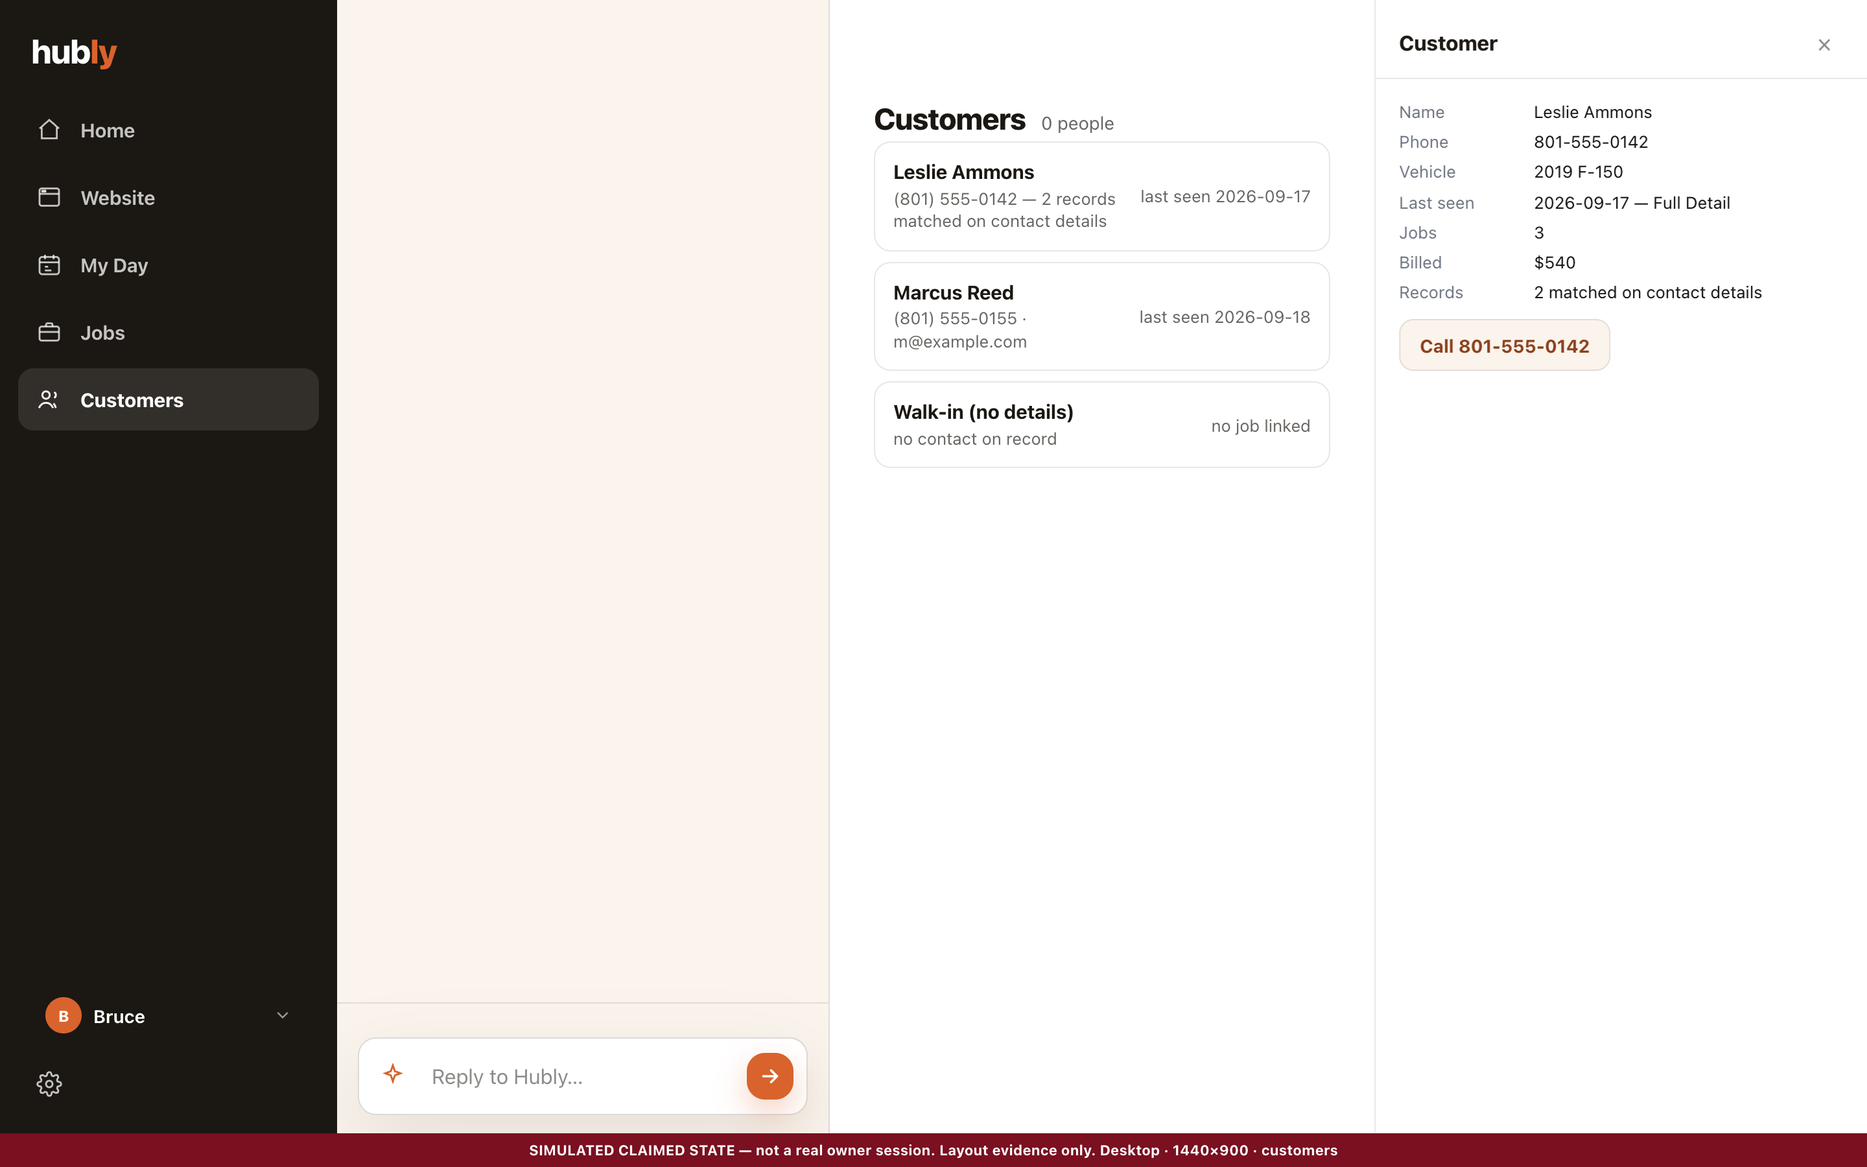
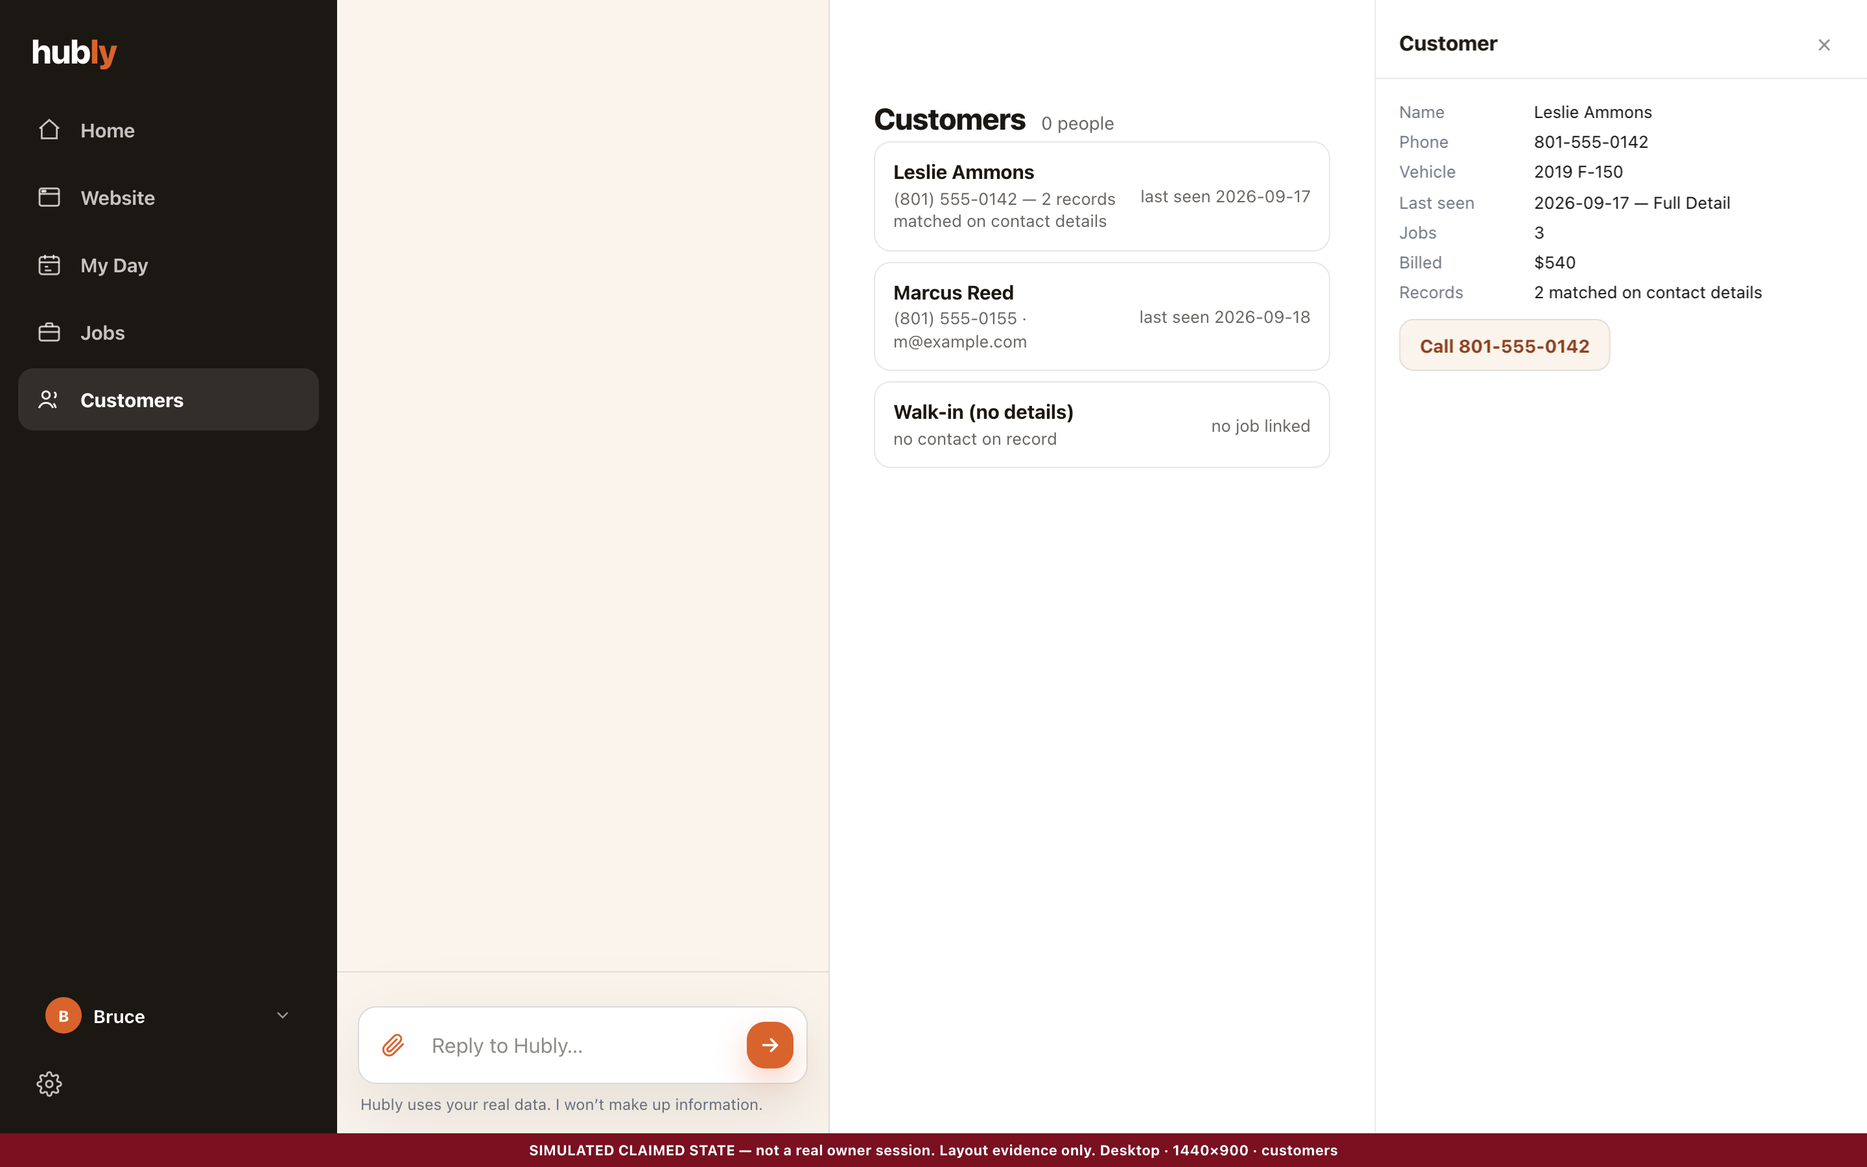
The five design gaps from 1d, closed — and the one that traded against another rule
A1. NO WAY TO LOOK AT ANOTHER DAY. hc._dayISO decided which day this surface drew from
the day it was written and NOTHING could change it. Today · ‹ · › · a real date field,
each setting the day and redrawing through hcRepaintDay — so bands, calendar, glance
counts, "Later this week", the progress line and the add form all move together and none
can disagree about which day it is. Today is disabled ON today rather than doing nothing
when pressed.

    AND THE SILENT WRONG-DATE WRITE IT WOULD HAVE CREATED, fixed in the same change: the
    add form wrote `new Date()` unconditionally. Harmless while today was the only day
    you could see; the moment these controls shipped it meant adding something while
    looking at next Tuesday put it on TODAY and said it was added. Leg 18 holds it.

A2. A BAND WITH ITEMS OFFERED NO WAY TO ADD. The + line rendered only in an EMPTY band,
so on a day with something in all three there was no + anywhere and the calendar hours
were the only door left — which nothing on screen announces. That is the idle-only-door
rule inside the surface the rule was written for.

A3. ROWS TRUNCATED, and the cause was a media query asking the wrong question. `.hcmd`
wrapped at `@media (max-width:1100px)` — the WINDOW. The day does not live in the window:
at 1440 it lives in an 800px canvas beside a 380px chat, so after a 320px context column
it had 412px for four columns and the query never fired. A container query on the pane
[…]

Changed region(s): [[0.1875, 0.8711, 0.4375, 0.9644]]

diff --git a/public/platform-home.html b/public/platform-home.html
@@ -323,10 +323,42 @@ body.hc-active .footer,body.hc-active .hero{display:none}
    NOTHING RENDERS SQUEEZED: the centre and the context column both have a min-width and the
    context column drops below the day rather than crushing it. */
 .hcmd{display:flex;gap:20px;align-items:flex-start;width:100%;height:100%;overflow:auto;padding:22px 24px 40px;box-sizing:border-box}
+/* THE CONTAINER IS THE PANE, NOT THE DAY ITSELF. An element is never its own container query
+   context, so `container-type` on .hcmd made `.hcmd{flex-wrap:wrap}` inside the @container block
+   silently never match while `.hcmd-ctx{flex:1 1 100%}` DID — the context column grew instead of
+   wrapping and the day got NARROWER (340px, measured). It belongs on the pane above. */
+#hcCanvas{container-type:inline-size}
 .hcmd-main{flex:1 1 560px;min-width:340px}
 .hcmd-ctx{flex:0 0 320px;min-width:260px;display:flex;flex-direction:column;gap:14px}
+/* ══ IT WRAPS ON ITS OWN WIDTH, NOT THE WINDOW'S. Adrian's design gap #3. ══════════════════
+   This was `@media (max-width:1100px)`, which asks how wide the WINDOW is. The day does not live
+   in the window: at 1440 it lives in an 800px canvas beside a 380px chat, and after a 320px
+   context column it had 412px for four columns. So the media query never fired at the size that
+   mattered and the rows truncated — "488 W Cen…", "Blocked — not a custo…" — while the page was
+   nominally wide. A container query asks the only question that was ever relevant: how much room
+   does THIS have. Below 900px of its own, the context column drops underneath and the day gets
+   the width back. (Nothing renders squeezed, at any width a surface can actually reach.)
+   900 IS A MEASUREMENT, NOT A ROUND NUMBER. At 1440 the canvas is 800: side by side leaves the
+   day 472px and "488 W Center St" still truncates; stacked it gets 752 and NOTHING truncates.
+   A wider screen crosses 900 and they sit side by side again on their own. If the day and the
+   context are wanted side by side AT 1440, the fix is the rail (260) and the chat (380) — the
+   approved drawing runs them at ~145 and ~290 — and that is a proportion change for Adrian,
+   not something to tune here. */
+@container (max-width:900px){ .hcmd{flex-wrap:wrap} .hcmd-ctx{flex:1 1 100%} }
 @media (max-width:1100px){ .hcmd{flex-wrap:wrap} .hcmd-ctx{flex:1 1 100%} }
 .hcmd-head{margin:0 0 18px}
+/* The date and the controls that move it share a line, and the controls sit to the right of it
+   the way the approved drawing has them. It wraps rather than squeezing: at a narrow canvas the
+   controls drop under the date instead of crushing the date into two lines. */
+.hcmd-datebar{display:flex;align-items:center;justify-content:space-between;gap:12px;flex-wrap:wrap}
+.hcmd-nav{display:flex;align-items:center;gap:6px;flex-shrink:0}
+.hcmd-navbtn{border:1px solid var(--line);background:var(--bg,#fff);color:var(--ink-2,#444);font:inherit;
+  font-size:13px;font-weight:650;min-height:32px;padding:0 12px;border-radius:9px;cursor:pointer}
+.hcmd-navbtn.is-icon{padding:0;width:32px;font-size:17px;line-height:1}
+.hcmd-navbtn:hover:not([disabled]){border-color:var(--ink-3,#8a909c);color:var(--ink)}
+.hcmd-navbtn[disabled]{opacity:.45;cursor:default}
+.hcmd-navdate{border:1px solid var(--line);background:var(--bg,#fff);color:var(--ink-2,#444);font:inherit;
+  font-size:13px;min-height:32px;padding:0 8px;border-radius:9px;cursor:pointer}
 .hcmd-date{font-size:14px;color:var(--muted)}
 .hcmd-title{font-size:38px;line-height:1.1;margin:2px 0 6px;font-weight:800;letter-spacing:-.02em}
 .hcmd-sub{margin:0;color:var(--muted);font-size:14px}
@@ -761,6 +793,9 @@ body.hc-shell-claimed .hc-canvas-bar{position:relative;z-index:61}
 .hc-arrival-act.is-primary{background:var(--brand-600,#D9632D);border-color:var(--brand-600,#D9632D);color:#fff}
 .hc-arrival-act.is-primary:hover{background:var(--brand-700,#b8501f);border-color:var(--brand-700,#b8501f)}
 .hc-arrival-act.is-primary[disabled]{opacity:.65;cursor:default}
+/* Quiet on purpose: it is a standing promise, not a notice. It must never look like an error
+   and must never be the thing the eye lands on. */
+.hc-ask-honesty{margin:8px 2px 0;font-size:12px;line-height:1.35;color:var(--muted,#6b7280);text-align:left}
 /* An action attached to a normal chat message (e.g. Undo beside a change). */
 .hc-msg-action{display:inline-block;margin-top:8px;padding:6px 13px;font-size:13px;min-height:34px}
 /* Direct-edit undo — a quiet transient control over the canvas, NOT a chat line. */
@@ -1696,14 +1731,29 @@ body.hc-shell-claimed .hc-canvas-bar{position:relative;z-index:61}
         <div class="ask-glow" aria-hidden="true"></div>
         <div class="ask-box">
           <input id="hcInput" type="text" autocomplete="off" placeholder="Reply to Hubly…" aria-label="Reply to Hubly">
-          <button type="button" class="ask-icon-left" id="hcAttachBtn" aria-label="Attach a photo or file">
-            <svg viewBox="0 0 24 24" fill="none" stroke="currentColor" stroke-width="1.8"><path d="M12 2l1.9 5.4L19 9.3l-5.1 1.9L12 16.6l-1.9-5.4L5 9.3l5.1-1.9L12 2z"/></svg>
+          <!-- A PAPERCLIP, BECAUSE IT ATTACHES A FILE. It was drawn as a four-point SPARKLE —
+               the universal "AI will do something clever" glyph — while being labelled "Attach a
+               photo or file". The control existed and worked; nobody would guess what it was, and
+               a door nobody recognises is the same as a door nobody has. (The drawing has a
+               paperclip here. It also has a microphone, which is NOT built — not drawn either,
+               because an affordance that does nothing is worse than a missing one.) -->
+          <button type="button" class="ask-icon-left" id="hcAttachBtn" aria-label="Attach a photo or file" title="Attach a photo or file">
+            <svg viewBox="0 0 24 24" fill="none" stroke="currentColor" stroke-width="1.8" stroke-linecap="round" stroke-linejoin="round"><path d="M21.4 11.1l-8.9 8.9a5.5 5.5 0 0 1-7.8-7.8l9-8.9a3.7 3.7 0 0 1 5.2 5.2l-8.9 8.9a1.8 1.8 0 0 1-2.6-2.6l8.2-8.2"/></svg>
           </button>
           <button type="button" class="ask-submit" id="hcSubmit" aria-label="Send">
             <svg viewBox="0 0 24 24" fill="none" stroke="currentColor" stroke-width="2.4" stroke-linecap="round" stroke-linejoin="round"><path d="M5 12h14M13 6l6 6-6 6"/></svg>
           </button>
         </div>
       </div>
+      <!-- ══ THE HONESTY LINE. It is in the approved drawing and it was not in the product. ══
+           Adrian, 2026-09-17: "THE HONESTY LINE IS MISSING — 'Hubly uses your real data. I won't
+           make up information.' That line is the product's whole thesis and it is absent from the
+           surface he looks at most."
+           It is also the one sentence on this screen that the rest of the repo has to keep true:
+           the grounding rules, "never state what you weren't told", "never publish a fact the
+           owner did not state". Printed where he types, because that is where he is deciding
+           whether to trust the answer. -->
+      <p class="hc-ask-honesty">Hubly uses your real data. I won’t make up information.</p>
     </div>
   </div>
   <div class="hc-app-right" id="hcCanvasPane">
@@ -8188,8 +8238,17 @@ body.hc-shell-claimed .hc-canvas-bar{position:relative;z-index:61}
     wrap.addEventListener('submit', async function(ev){
       ev.preventDefault();
       b.disabled = true;
+      // ══ THE DAY HE IS LOOKING AT, NEVER "today". ════════════════════════════════════════════
+      //
+      // This wrote `new Date()` unconditionally, which was harmless while the surface could only
+      // ever draw today. The moment the day controls shipped (2026-09-17) it became a SILENT
+      // WRONG-DATE WRITE: on Thursday's view, adding something would have put it on Wednesday
+      // with a confirmation saying it was added — the owner told, in words, a thing that is not
+      // where he put it. Fixed in the same change that made it reachable, not after someone
+      // found it.
       var today = new Date();
-      var iso = today.getFullYear() + '-' + String(today.getMonth() + 1).padStart(2, '0') + '-' + String(today.getDate()).padStart(2, '0');
+      var iso = hc._dayISO ||
+        (today.getFullYear() + '-' + String(today.getMonth() + 1).padStart(2, '0') + '-' + String(today.getDate()).padStart(2, '0'));
       var res = await hcAddDayTask({ title: w.value, time: t.value, place: p.value, date: iso });
       // EVERY OUTCOME SAYS SOMETHING, HERE, BESIDE THE CONTROL THEY PRESSED (prohibition 6).
       msg.textContent = hcAddDayTaskLine(res);
@@ -9359,6 +9418,53 @@ body.hc-shell-claimed .hc-canvas-bar{position:relative;z-index:61}
     }catch(e){}
     return form;
   }
+  /** THE DAY CONTROLS — Today · ‹ · › · a real date field.
+   *
+   *  Each one sets `hc._dayISO` and redraws through hcRepaintDay, which is the SAME repaint every
+   *  other writer uses — so moving to tomorrow and adding something to tomorrow cannot end up
+   *  disagreeing about what day it is.
+   *
+   *  `Today` is disabled when he is already on today: a control that does nothing when pressed is
+   *  worse than one that is visibly unavailable, and this is the one place the difference is
+   *  obvious at a glance. */
+  function hcDayNav(canvas, biz, dayISO){
+    var nav = hcEl('div', 'hcmd-nav');
+    var isoOf = function(d){ return d.getFullYear()+'-'+String(d.getMonth()+1).padStart(2,'0')+'-'+String(d.getDate()).padStart(2,'0'); };
+    var todayISO = isoOf(new Date());
+    var go = function(iso){
+      if(!iso) return;
+      hc._dayISO = (iso === todayISO) ? null : iso;   // null means "today", so it follows midnight
+      hcRepaintDay();
+    };
+    var shift = function(days){
+      var d = new Date(String(dayISO) + 'T12:00:00');
+      if(isNaN(d.getTime())) return;
+      d.setDate(d.getDate() + days);
+      go(isoOf(d));
+    };
+    var today = hcEl('button', 'hcmd-navbtn', 'Today');
+    today.type = 'button'; today.setAttribute('data-hc-day', 'today');
+    if(dayISO === todayISO){ today.disabled = true; today.title = 'You’re on today'; }
+    today.addEventListener('click', function(){ go(todayISO); });
+    var prev = hcEl('button', 'hcmd-navbtn is-icon', '\u2039');
+    prev.type = 'button'; prev.setAttribute('data-hc-day', 'prev');
+    prev.setAttribute('aria-label', 'The day before');
+    prev.addEventListener('click', function(){ shift(-1); });
+    var next = hcEl('button', 'hcmd-navbtn is-icon', '\u203a');
+    next.type = 'button'; next.setAttribute('data-hc-day', 'next');
+    next.setAttribute('aria-label', 'The day after');
+    next.addEventListener('click', function(){ shift(1); });
+    // A REAL DATE FIELD, not a calendar we drew. The platform's own picker is reachable by
+    // keyboard, localised, and known to everyone holding the device.
+    var pick = document.createElement('input');
+    pick.type = 'date'; pick.className = 'hcmd-navdate';
+    pick.value = dayISO || todayISO;
+    pick.setAttribute('data-hc-day', 'pick');
+    pick.setAttribute('aria-label', 'Go to a date');
+    pick.addEventListener('change', function(){ go(pick.value); });
+    nav.appendChild(today); nav.appendChild(prev); nav.appendChild(next); nav.appendChild(pick);
+    return nav;
+  }
   /** One item, flattened from a job or a task, so the row renderer has no idea which it was. */
   function hcDayItems(loaded, dayISO){
     var items = [];
@@ -9443,7 +9549,20 @@ body.hc-shell-claimed .hc-canvas-bar{position:relative;z-index:61}
     // ── CENTRE: the day is the hero ──────────────────────────────────────────────────────
     var main = hcEl('main', 'hcmd-main');
     var head = hcEl('div', 'hcmd-head');
-    head.appendChild(hcEl('div', 'hcmd-date', hcDateLong(dayISO) || hcDateUS(dayISO) || ''));
+    var datebar = hcEl('div', 'hcmd-datebar');
+    datebar.appendChild(hcEl('div', 'hcmd-date', hcDateLong(dayISO) || hcDateUS(dayISO) || ''));
+    // ══ A MODEL WITH NO CONTROLS ON IT. Built 2026-09-17, Adrian's design gap #1. ═════════════
+    //
+    // `hc._dayISO` has decided which day this surface draws since it was written, and NOTHING
+    // could change it: no Today, no arrows, no picker — the approved drawing has all four and the
+    // product had none. An owner could look at today and only today, on the surface whose whole
+    // job is his schedule.
+    //
+    // THE HOUR MOVES THE WHOLE SURFACE, NOT A LABEL. The bands, the calendar, the glance counts,
+    // "Later this week", the progress line and the add form's date all read `dayISO`, so one
+    // variable moves them together and none of them can disagree about which day it is.
+    datebar.appendChild(hcDayNav(canvas, biz, dayISO));
+    head.appendChild(datebar);
     head.appendChild(hcEl('h1', 'hcmd-title', 'My Day'));
     // ONE GESTURE, ONE PHRASING, and it is the one Adrian ruled (design README ruling 2). The
     // drawing's "Get things done. … or just start typing." is a picture artifact; this is his.
@@ -9510,8 +9629,14 @@ body.hc-shell-claimed .hc-canvas-bar{position:relative;z-index:61}
 
       var body = hcEl('div', 'hcmd-rows');
       var mine = banded.filter(function(x){ return b === '?' ? !x.r.band : x.r.band === b; });
-      if(!mine.length){
-        // ONE LINE, NEVER A GHOST ROW — and now the button actually does something.
+      // ══ THE DOOR IS IN EVERY BAND, NOT ONLY AN EMPTY ONE. Adrian's design gap #2. ════════════
+      //
+      // The add line rendered ONLY when a band had nothing in it, so on a day with something in
+      // all three bands there was no + anywhere on the surface — the calendar hours were the only
+      // remaining door and nothing on screen says an hour is a door. That is the idle-only-door
+      // rule, inside the surface the rule was written for, and the approved drawing has the line
+      // under every band whether it holds anything or not.
+      var addLine = function(){
         var add = hcEl('button', 'hcmd-add');
         add.type = 'button';
         add.setAttribute('data-hc-day', 'add-open');
@@ -9519,7 +9644,11 @@ body.hc-shell-claimed .hc-canvas-bar{position:relative;z-index:61}
         add.appendChild(hcEl('span', 'hcmd-plus', '+'));
         add.appendChild(hcEl('span', null, HC_DAY_ADD_LINE));
         add.addEventListener('click', function(){ hcOpenDayAdd(sec, biz, { band: b }); });
-        body.appendChild(add);
+        return add;
+      };
+      if(!mine.length){
+        // ONE LINE, NEVER A GHOST ROW — and now the button actually does something.
+        body.appendChild(addLine());
       } else {
         mine.forEach(function(x){
           var it = x.it;
@@ -9549,6 +9678,9 @@ body.hc-shell-claimed .hc-canvas-bar{position:relative;z-index:61}
           if(it.kind === 'job' && it.raw) row.addEventListener('click', function(){ try{ hcJobPanel(it.raw); }catch(e){} });
           body.appendChild(row);
         });
+        // AFTER THE ROWS, so it reads as "and one more thing" rather than competing with what is
+        // already on his day.
+        body.appendChild(addLine());
       }
       // THE PROMISED GESTURE STILL WORKS. He was told double-click for days; honouring it costs one
       // listener and breaks nobody, and removing a gesture someone has learned is its own small
@@ -9597,9 +9729,11 @@ body.hc-shell-claimed .hc-canvas-bar{position:relative;z-index:61}
     // TODAY AT A GLANCE — three honest counts. No ring, no percentage, no colour that moves
     // with progress (ruling 3, 2026-09-16). A count we could not read is NOT rendered as 0.
     var glance = hcEl('section', 'hcmd-card');
-    // The heading names what the card holds. "Today at a glance" is the drawing's caption and is
-    // in neither the spec nor Adrian's words; the three tile labels below ARE his (ruling 3).
-    glance.appendChild(hcEl('h3', 'hcmd-cardh', 'Today'));
+    // THE HEADING FOLLOWS THE DAY. It said "Today" unconditionally, which was true while today
+    // was the only day this surface could draw. It is not any more: a card called "Today" beside
+    // next Tuesday's rows is a false statement about which day he is looking at — the same defect
+    // as any other unearned label, arriving through a heading.
+    glance.appendChild(hcEl('h3', 'hcmd-cardh', (hcDayLabel(dayISO) || 'Today') + ' at a glance'));
     var tiles = hcEl('div', 'hcmd-glance');
     var jobCount = loaded.jobsFailed ? null : items.filter(function(i){ return i.kind === 'job' && i.type === 'Job'; }).length;
     var evCount  = loaded.jobsFailed ? null : items.filter(function(i){ return i.kind === 'job' && i.type !== 'Job'; }).length;

diff --git a/docs/design/MY_DAY_VS_DESIGN_20260917.md b/docs/design/MY_DAY_VS_DESIGN_20260917.md
@@ -15,6 +15,33 @@ about LAYOUT is the shipping product's; nothing here is evidence about what the 
 
 ---
 
+## STATUS AFTER 2026-09-17 — five of the six are closed
+
+| | gap | now |
+| --- | --- | --- |
+| 1 | the account pill floated over the day | **fixed** — it is in the rail |
+| 2 | no way to look at another day | **fixed** — `Today · ‹ · › ·` a real date field, and the whole surface moves |
+| 3 | a band with items offered no way to add | **fixed** — the add line is under every band |
+| 4 | rows truncated | **fixed** — a container query on the pane, not a media query on the window |
+| 5 | context cards renamed / de-linked | **partly** — the glance card is "… at a glance" again and follows the day; the two links are NOT added, because there is nothing behind them yet and a control that leads nowhere is worse than none |
+| 6 | band descriptions | **not a gap** — Adrian ruled the band rule wins |
+| 7 | the Ask Hubly panel is thinner | **partly** — the honesty line is in; the four action chips and a mic are not |
+
+**AND ONE THING I GOT WRONG IN THIS DOC:** I wrote *"no attach or mic"*. **Attach existed all
+along** — `#hcAttachBtn`, labelled "Attach a photo or file" — drawn as a four-point **sparkle**, the
+universal "AI will do something clever" glyph. The control worked and nobody would guess what it
+was; a door nobody recognises is the same as a door nobody has. It is a paperclip now. The mic is
+genuinely not built, and is not drawn.
+
+**A CONSEQUENCE ADRIAN SHOULD SEE:** fixing the truncation moved the context column (glance,
+calendar, stops) **underneath** the day at 1440. Both of his rules apply here and at that width they
+conflict — *"the calendar sits right"* (his step 6) and *"nothing renders squeezed, at any width"*.
+Measured: side by side the day gets **472px** and the address still truncates; stacked it gets
+**752px** and nothing truncates. The day column won. It goes back beside the day on a wider screen
+on its own (checked at 1800: canvas 1160, beside, nothing truncated). **If he wants them side by
+side AT 1440, the lever is the rail (260px) and the chat (380px) — the drawing runs them at ~145
+and ~290 — and that is a proportion change for him to make, not one to tune quietly.**
+
 ## Differences, worst first
 
 1. **~~The account pill sits on top of the day.~~ FIXED THIS ROUND.** It was `position:fixed` in
